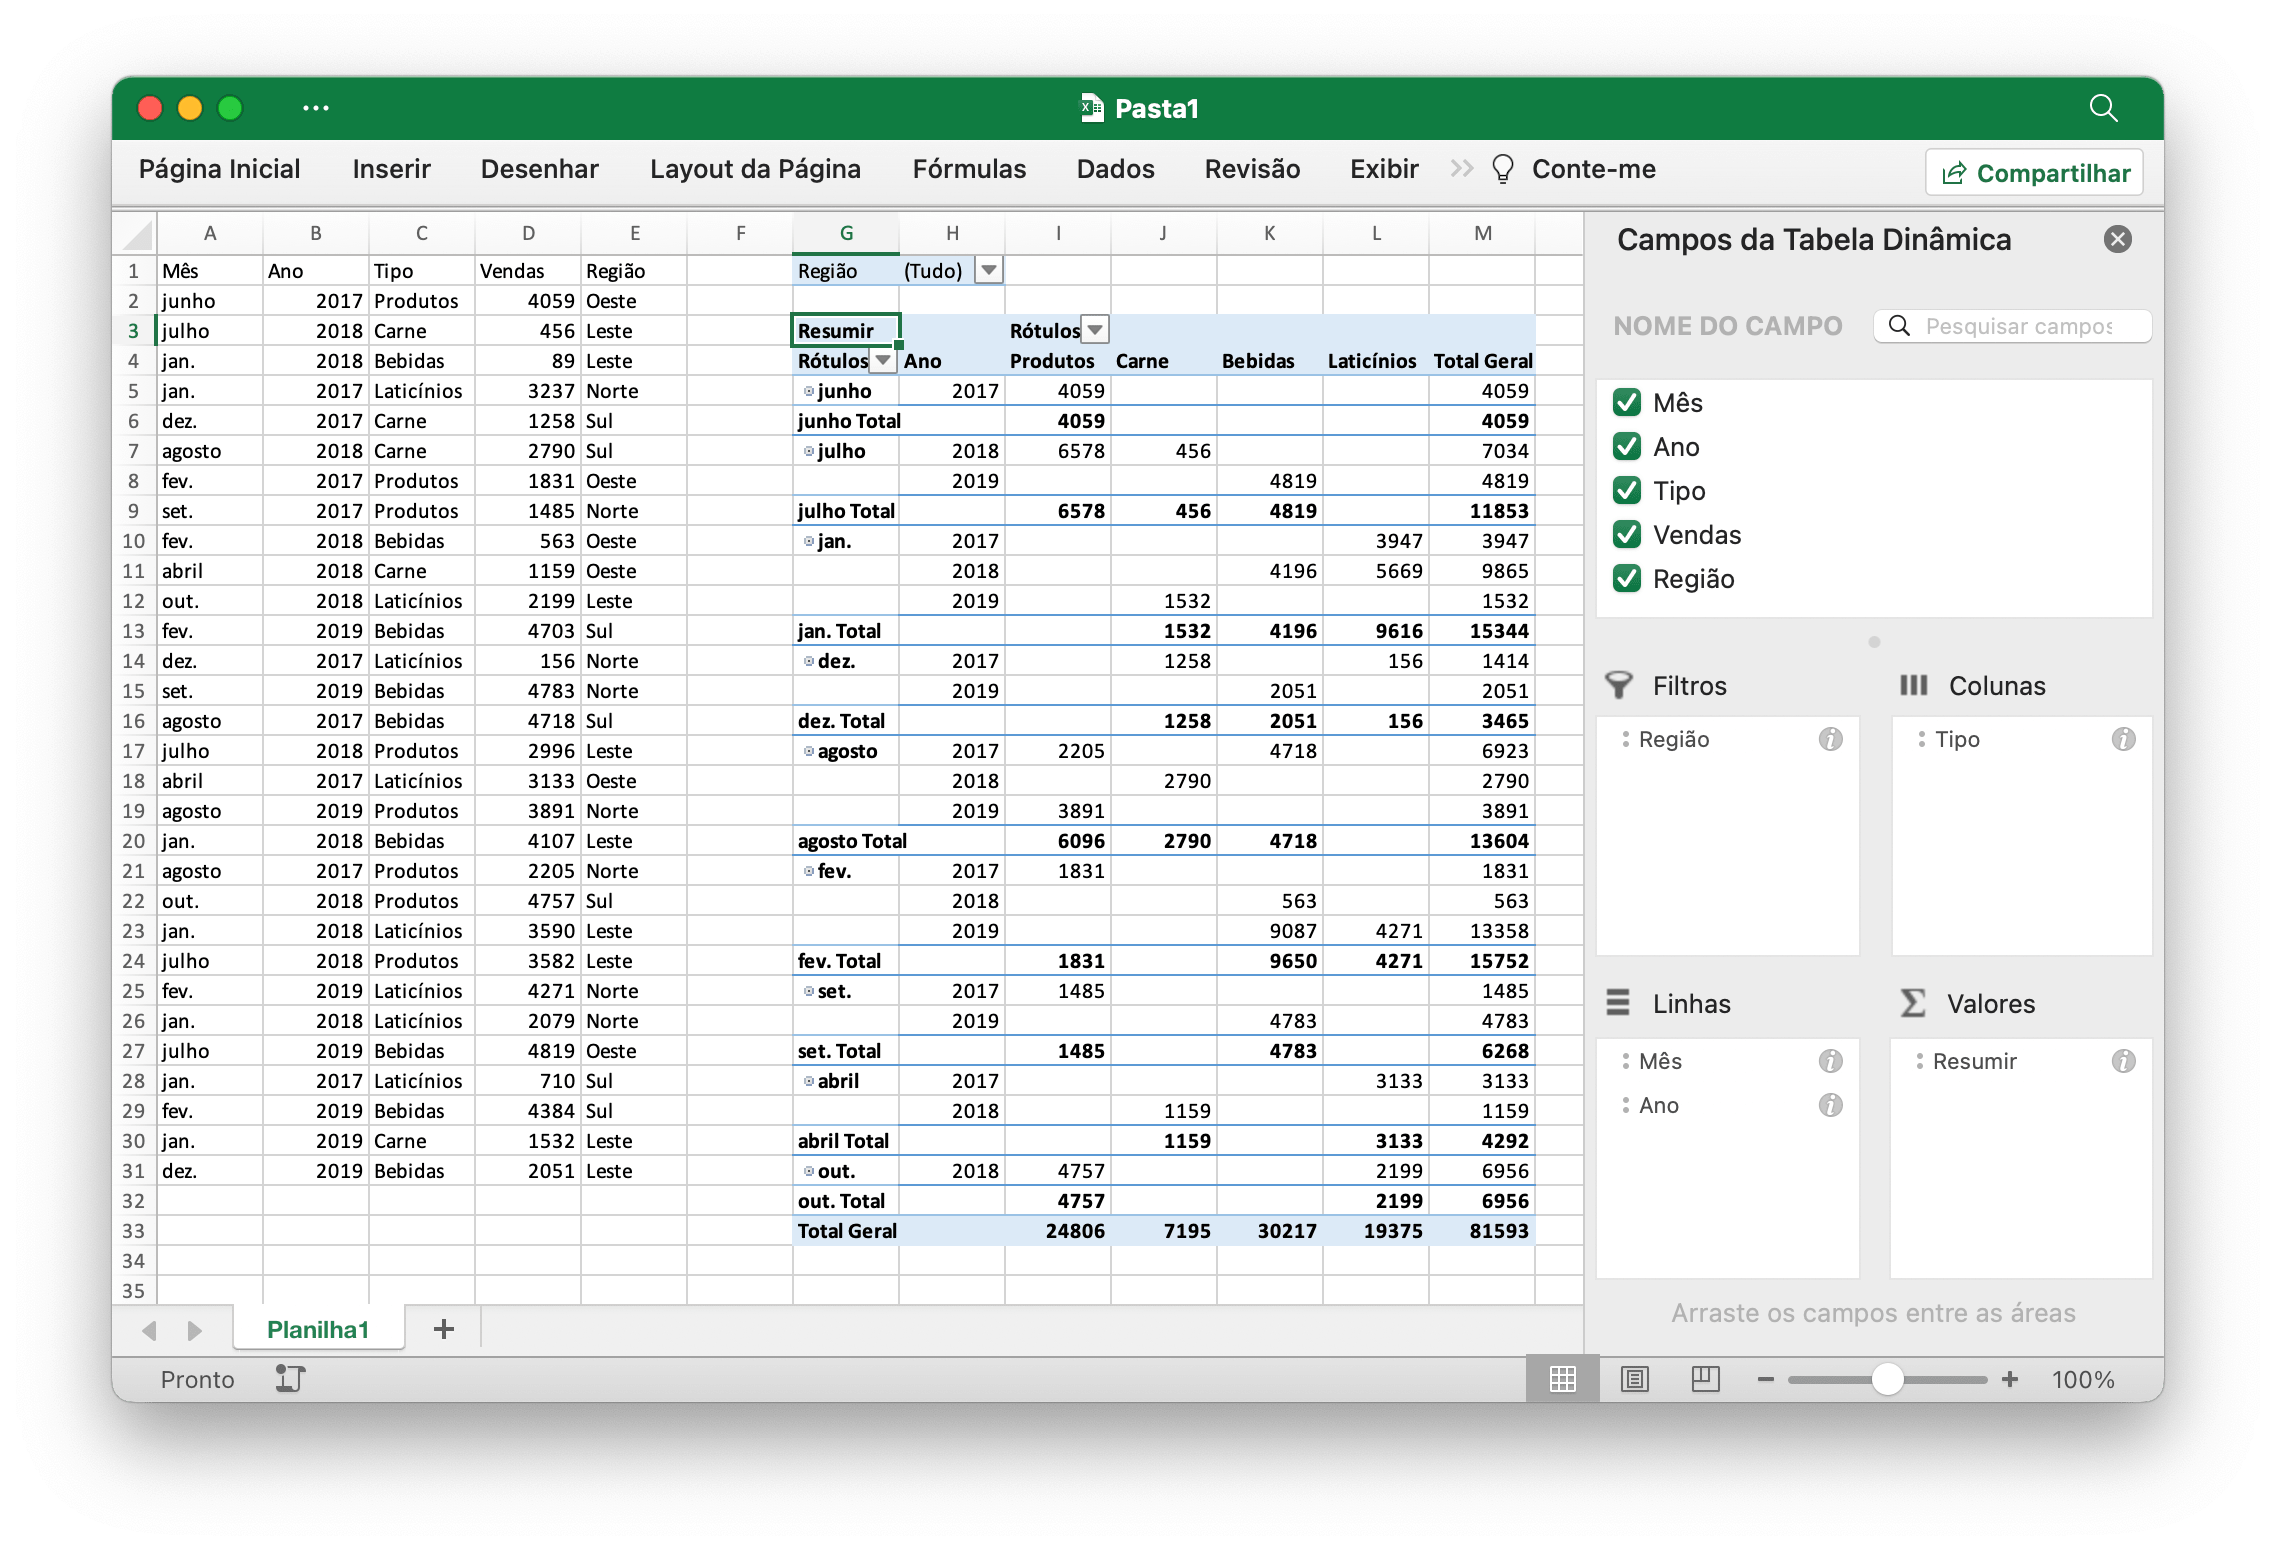
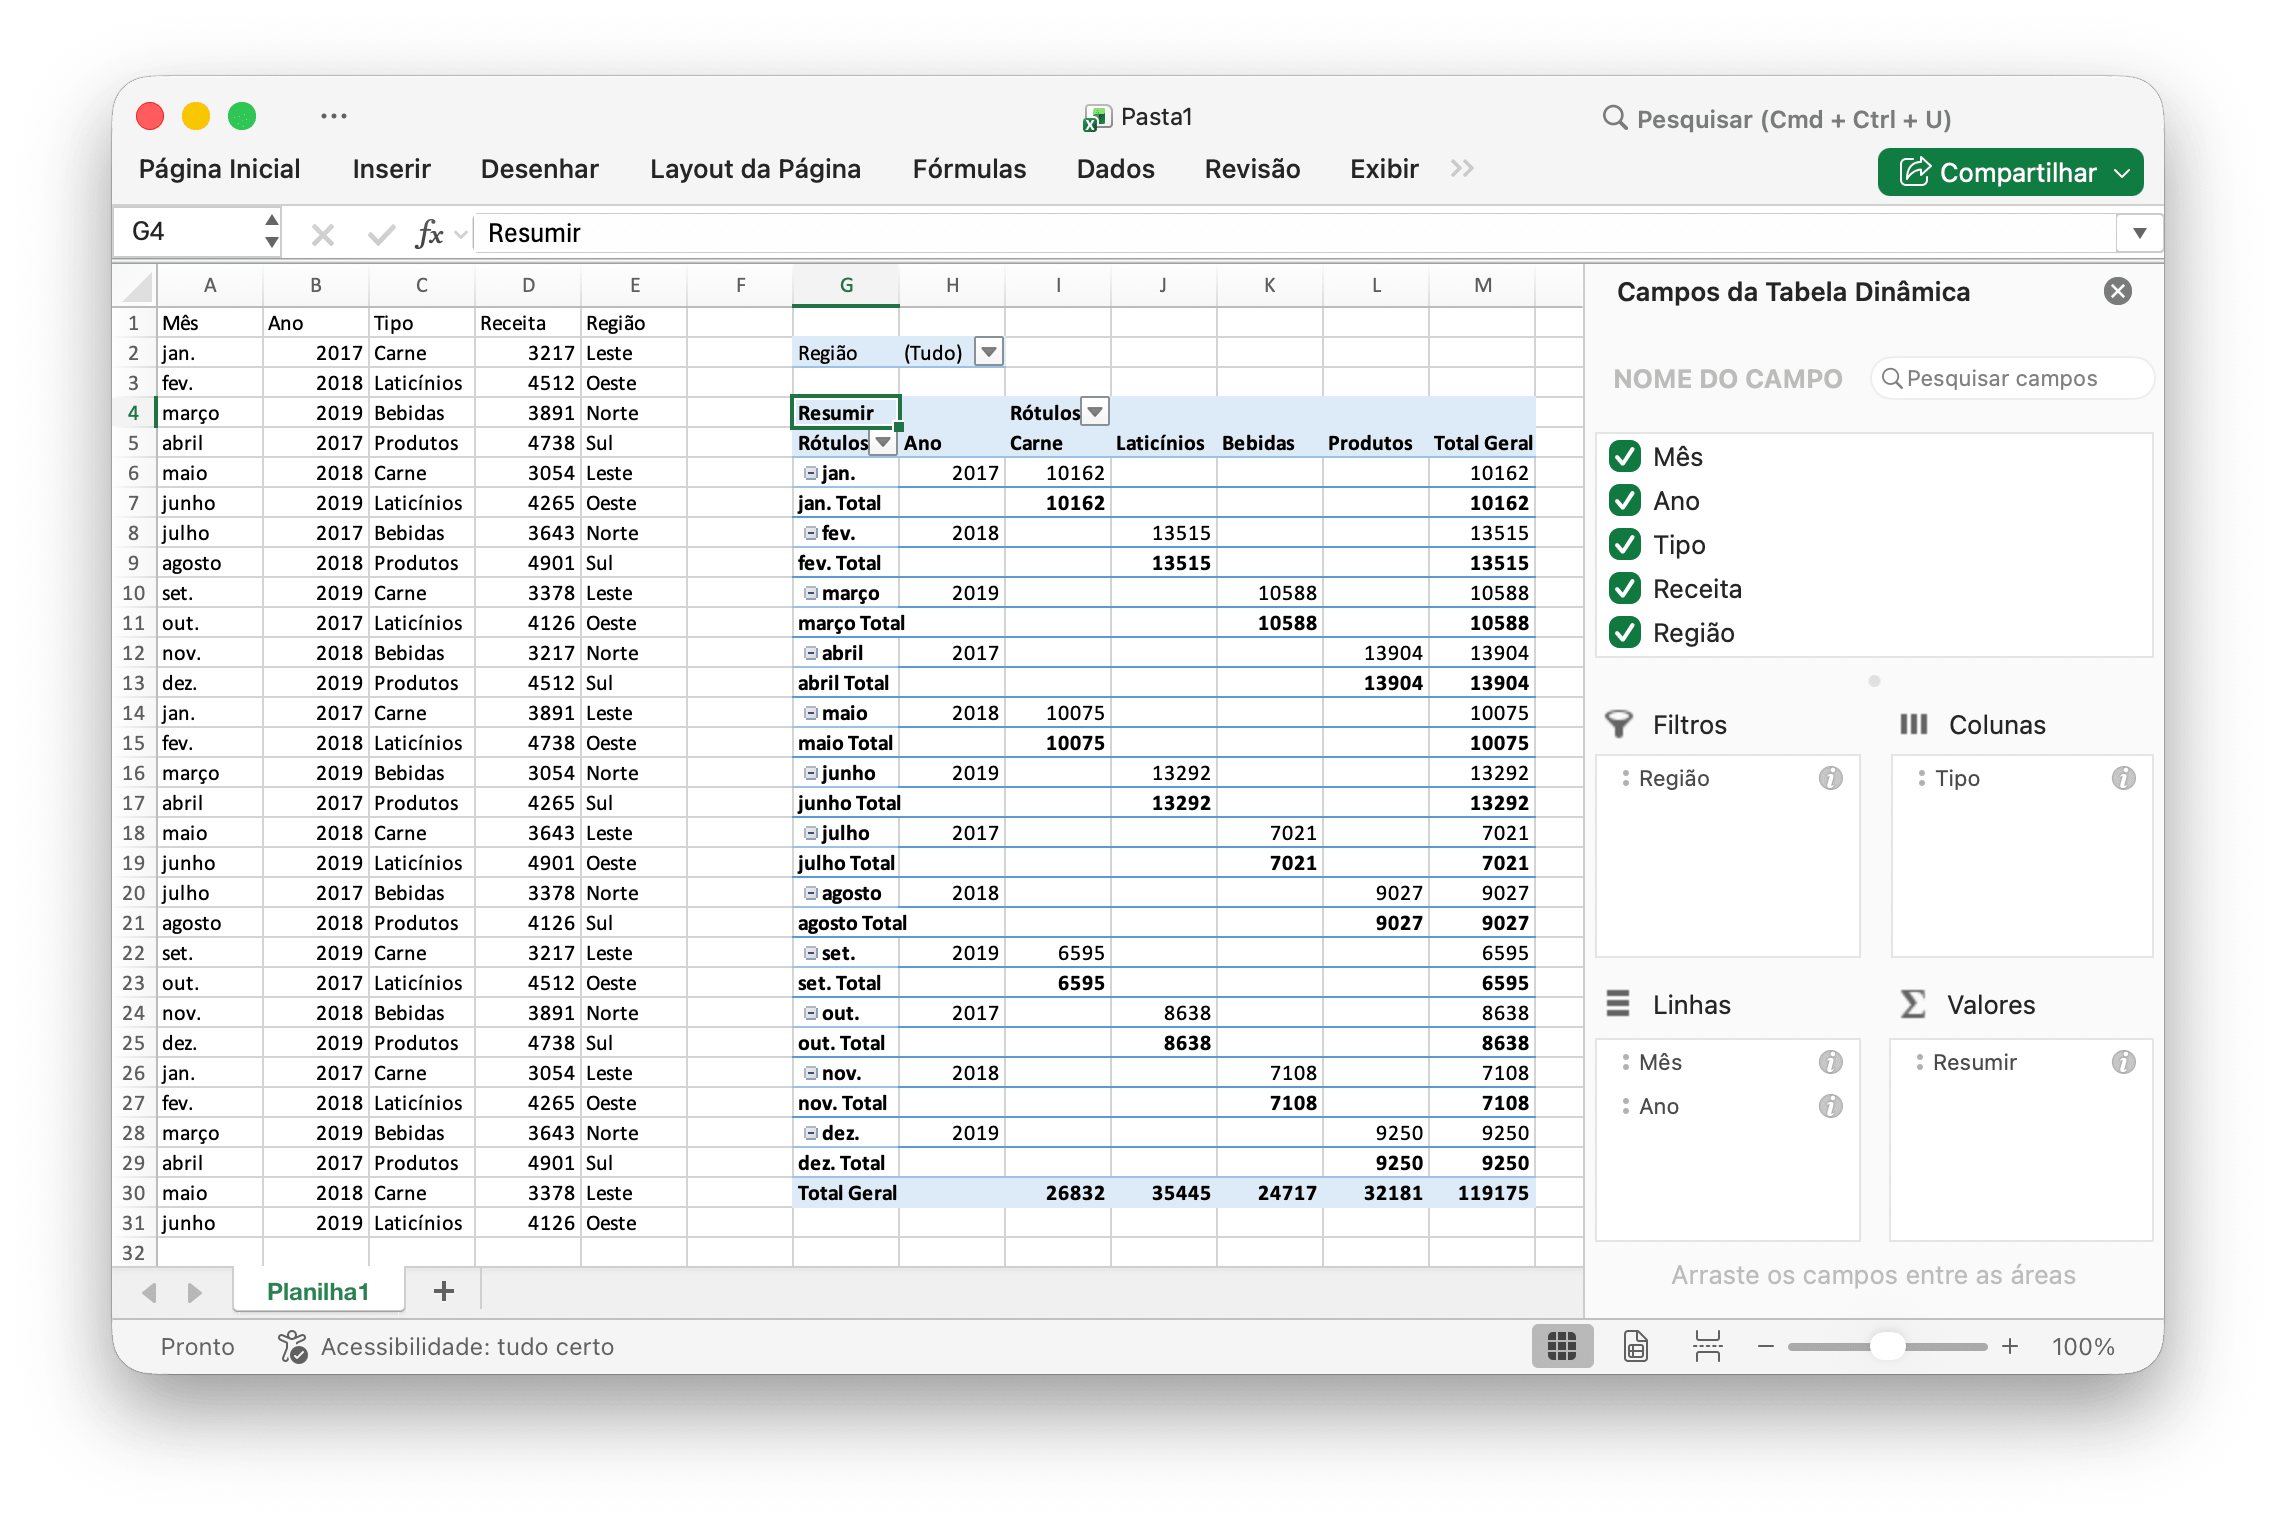
Update pt version docs for new SelectedItems fields in PivotTableOptions and SlicerOptions data type
- This related for xuri/excelize#2154, and xuri/excelize#2271

diff --git a/pt/pivot.md b/pt/pivot.md
@@ -55,6 +55,7 @@ type PivotTableField struct {
     Subtotal        string
     DefaultSubtotal bool
     NumFmt          int
+    SelectedItems   []string
 }
 ```
 
@@ -76,6 +77,8 @@ type PivotTableField struct {
 
 `Name` especifica o nome do campo de dados. São permitidos no máximo `255` caracteres no nome do campo de dados; os caracteres em excesso serão truncados.
 
+`SelectedItems` especifica os itens selecionados por padrão em um campo de tabela dinâmica. Os itens selecionados devem ser valores dentro do intervalo de células referenciado por esse campo.
+
 ## Criar tabela dinâmica {#AddPivotTable}
 
 ```go
@@ -84,7 +87,7 @@ func (f *File) AddPivotTable(opts *PivotTableOptions) error
 
 AddPivotTable fornece o método para adicionar tabela dinâmica por meio de determinadas opções de tabela dinâmica.
 
-Por exemplo, crie uma tabela dinâmica na área `Planilha1!$G$2:$M$34` com a região `Planilha1!$A$1:$E$31` como fonte de dados, resumindo por soma para vendas:
+Por exemplo, crie uma tabela dinâmica na área `Planilha1!G4:M30` com a região `Planilha1!$A1:E31` como fonte de dados, resumindo por soma para vendas:
 
 <p align="center"><img width="1138" src="./images/pivot_table_01.png" alt="criar tabela dinâmica com Excelize usando Go"></p>
 
@@ -93,7 +96,6 @@ package main
 
 import (
     "fmt"
-    "math/rand"
 
     "github.com/xuri/excelize/v2"
 )
@@ -114,26 +116,36 @@ func main() {
         "junho", "julho", "agosto", "set.", "out.", "nov.", "dez."}
     year := []int{2017, 2018, 2019}
     types := []string{"Carne", "Laticínios", "Bebidas", "Produtos"}
+    revenue := []int{3217, 4512, 3891, 4738, 3054, 4265, 3643, 4901, 3378, 4126}
     region := []string{"Leste", "Oeste", "Norte", "Sul"}
-    f.SetSheetRow("Planilha1", "A1", &[]string{"Mês", "Ano", "Tipo", "Vendas", "Região"})
+    if err := f.SetSheetRow(
+        "Planilha1", "A1", &[]string{"Mês", "Ano", "Tipo", "Receita", "Região"},
+    ); err != nil {
+        fmt.Println(err)
+        return
+    }
     for row := 2; row < 32; row++ {
-        f.SetCellValue("Planilha1", fmt.Sprintf("A%d", row), month[rand.Intn(12)])
-        f.SetCellValue("Planilha1", fmt.Sprintf("B%d", row), year[rand.Intn(3)])
-        f.SetCellValue("Planilha1", fmt.Sprintf("C%d", row), types[rand.Intn(4)])
-        f.SetCellValue("Planilha1", fmt.Sprintf("D%d", row), rand.Intn(5000))
-        f.SetCellValue("Planilha1", fmt.Sprintf("E%d", row), region[rand.Intn(4)])
+        f.SetCellValue("Planilha1", fmt.Sprintf("A%d", row), month[(row-2)%len(month)])
+        f.SetCellValue("Planilha1", fmt.Sprintf("B%d", row), year[(row-2)%len(year)])
+        f.SetCellValue("Planilha1", fmt.Sprintf("C%d", row), types[(row-2)%len(types)])
+        f.SetCellValue("Planilha1", fmt.Sprintf("D%d", row), revenue[(row-2)%len(revenue)])
+        f.SetCellValue("Planilha1", fmt.Sprintf("E%d", row), region[(row-2)%len(region)])
     }
     if err := f.AddPivotTable(&excelize.PivotTableOptions{
         DataRange:       "Planilha1!A1:E31",
-        PivotTableRange: "Planilha1!G2:M34",
+        PivotTableRange: "Planilha1!G4:M30",
         Rows: []excelize.PivotTableField{
-            {Data: "Mês", DefaultSubtotal: true}, {Data: "Ano"}},
+            {Data: "Mês", DefaultSubtotal: true}, {Data: "Ano"},
+        },
         Filter: []excelize.PivotTableField{
-            {Data: "Região"}},
+            {Data: "Região"},
+        },
         Columns: []excelize.PivotTableField{
-            {Data: "Tipo", DefaultSubtotal: true}},
+            {Data: "Tipo", DefaultSubtotal: true},
+        },
         Data: []excelize.PivotTableField{
-            {Data: "Vendas", Name: "Resumir", Subtotal: "Sum"}},
+            {Data: "Receita", Name: "Resumir", Subtotal: "Sum"},
+        },
         RowGrandTotals: true,
         ColGrandTotals: true,
         ShowDrill:      true,

diff --git a/pt/data.md b/pt/data.md
@@ -80,24 +80,28 @@ DeleteDataValidation exclui a validação de dados por determinado nome de plani
 
 ```go
 type SlicerOptions struct {
-    Name          string
-    Table         string
-    Cell          string
-    Caption       string
-    Macro         string
-    Width         uint
-    Height        uint
-    DisplayHeader *bool
-    ItemDesc      bool
-    Format        GraphicOptions
+    Name            string
+    Cell            string
+    TableSheet      string
+    TableName       string
+    Caption         string
+    Macro           string
+    Width           uint
+    Height          uint
+    DisplayHeader   *bool
+    ItemDesc        bool
+    Format          GraphicOptions
+    SelectedItems   []string
 }
 ```
 
 `Name` especifica o nome do slicer, deve ser um nome de campo existente da tabela ou tabela dinâmica fornecida, esta configuração é obrigatória.
 
-`Table` especifica o nome da tabela ou tabela dinâmica, esta configuração é obrigatória.
-
 `Cell` especifica que a célula superior esquerda coordena a posição para inserir a segmentação de dados; esta configuração é obrigatória.
+
+`TableSheet` especifica o nome da planilha da tabela ou tabela dinâmica; essa configuração é obrigatória.
+
+`TableName` especifica o nome da tabela ou tabela dinâmica; essa configuração também é obrigatória.
 
 `Caption` especifica a legenda da segmentação de dados, esta configuração é opcional.
 
@@ -112,6 +116,8 @@ type SlicerOptions struct {
 `ItemDesc` especifica a classificação decrescente de itens (Z-A), esta configuração é opcional e a configuração padrão é `false` (representa crescente).
 
 `Format` especifica o formato da segmentação de dados, esta configuração é opcional.
+
+`SelectedItems` é usada para especificar os itens selecionados por padrão em um segmentador de dados. Atualmente, ela é compatível apenas com segmentadores de dados em tabelas dinâmicas. Os itens selecionados devem estar dentro do intervalo de itens selecionados na tabela dinâmica. Se a tabela dinâmica for criada usando a função [`AddPivotTable`](pivot.md#AddPivotTable), o mesmo campo também deverá ter seu intervalo de itens selecionados especificado no momento da criação da tabela dinâmica.
 
 ```go
 func (f *File) AddSlicer(sheet string, opts *SlicerOptions) error

diff --git a/pt/README.md b/pt/README.md
@@ -9,7 +9,7 @@ Excelize é uma biblioteca escrita em Go puro que fornece um conjunto de funçõ
 - go.dev: [pkg.go.dev/github.com/xuri/excelize/v2](https://pkg.go.dev/github.com/xuri/excelize/v2)
 - Licenças: [BSD 3-Clause](https://opensource.org/licenses/BSD-3-Clause)
 - Última versão: [v2.10.1](https://github.com/xuri/excelize/releases/latest)
-- Hora de atualização do documento: 11 de março de 2026
+- Hora de atualização do documento: 28 de março de 2026
 
 ## Missão do projeto
 
